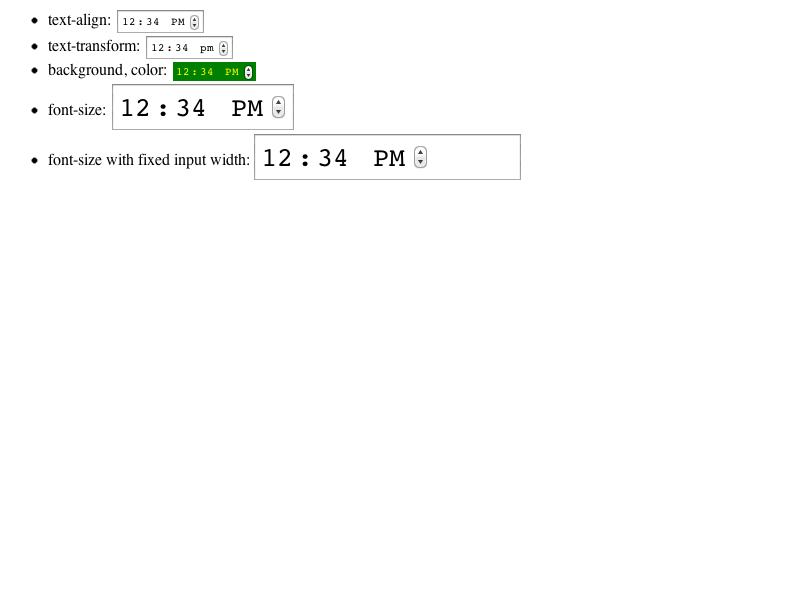
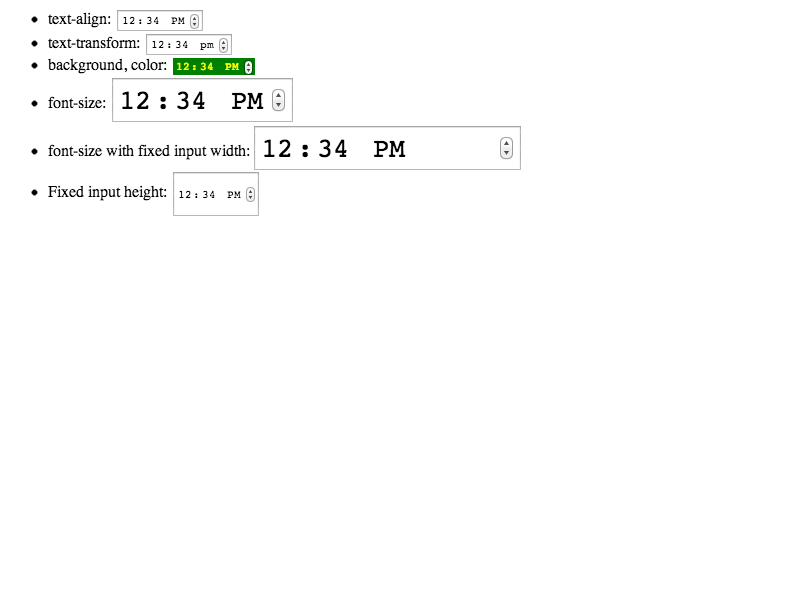
Fix some appearance glitches of multiple fields input elements https://bugs.webkit.org/show_bug.cgi?id=99412
Reviewed by Kentaro Hara.

Source/WebCore:

1. If CSS-specified width is wider than the intrinsic width of an input,
the spin button and the picker indicator triangle should be put at the
right side of the content area.

2. Remove top, right, and bottom paddings to match input[type=number]
appearance as possible.

3. Remove unnecessary position:relative for spin buttons.

4. Center content vertically if the height is taller than the intrinsic height.

Tests: Update all of rendering tests for input element with multiple fields UI.

* css/html.css:
(input[type="date"]):
- Specify display:-webkit-inline-flex and -webkit-align-items:stretch to center contents.
- Remove top/right/bottom paddings.
(input[type="datetime"]): Ditto.
(input[type="datetime-local"]): Ditto.
(input[type="month"]): Ditto.
(input[type="time"]): Ditto.
(input[type="week"]): Ditto.
(input::-webkit-datetime-edit):
- Switch to the starndard flexible box from the legacy one.
- Add white-space:pre to avoid to collapse white spaces.
(input::-webkit-datetime-edit-gap):
Added. This element is added to push a spin button to the right side.
(input::-webkit-date-and-time-container):
Add -webkit-flex:1 for the input flexible box.
Sort properties.
(input[type="week"]::-webkit-inner-spin-button):
- Use this in date, datetime, datetime-local, and week types.
- Add display:inline-block because other elements in -webkit-datetime-edit is inilne.
- Add position:static to cancel position:relative below.
[…]

Changed region(s): [[0.0312, 0.0, 0.6562, 0.33]]

diff --git a/Source/WebCore/css/html.css b/Source/WebCore/css/html.css
@@ -479,39 +479,59 @@ datalist {
 #if defined(ENABLE_INPUT_MULTIPLE_FIELDS_UI) && ENABLE_INPUT_MULTIPLE_FIELDS_UI
 #if defined(ENABLE_INPUT_TYPE_DATE) && ENABLE_INPUT_TYPE_DATE
 input[type="date"] {
+    -webkit-align-items: stretch;
+    display: -webkit-inline-flex;
     font-family: monospace;
+    padding: 0 0 0 1px;
 }
 #endif
 #if defined(ENABLE_INPUT_TYPE_DATETIME) && ENABLE_INPUT_TYPE_DATETIME
 input[type="datetime"] {
+    -webkit-align-items: stretch;
+    display: -webkit-inline-flex;
     font-family: monospace;
+    padding: 0 0 0 1px;
 }
 #endif
 #if defined(ENABLE_INPUT_TYPE_DATETIMELOCAL) && ENABLE_INPUT_TYPE_DATETIMELOCAL
 input[type="datetime-local"] {
+    -webkit-align-items: stretch;
+    display: -webkit-inline-flex;
     font-family: monospace;
+    padding: 0 0 0 1px;
 }
 #endif
 #if defined(ENABLE_INPUT_TYPE_MONTH) && ENABLE_INPUT_TYPE_MONTH
 input[type="month"] {
+    -webkit-align-items: stretch;
+    display: -webkit-inline-flex;
     font-family: monospace;
+    padding: 0 0 0 1px;
 }
 #endif
 #if defined(ENABLE_INPUT_TYPE_TIME) && ENABLE_INPUT_TYPE_TIME
 input[type="time"] {
+    -webkit-align-items: stretch;
+    display: -webkit-inline-flex;
     font-family: monospace;
+    padding: 0 0 0 1px;
 }
 #endif
 #if defined(ENABLE_INPUT_TYPE_WEEK) && ENABLE_INPUT_TYPE_WEEK
 input[type="week"] {
+    -webkit-align-items: stretch;
+    display: -webkit-inline-flex;
     font-family: monospace;
+    padding: 0 0 0 1px;
 }
 #endif
 
 input::-webkit-datetime-edit {
+    -webkit-align-items: center;
+    -webkit-flex: 1;
     -webkit-user-modify: read-only !important;
-    display: -webkit-box;
-    -webkit-box-align: center;
+    display: -webkit-flex;
+    white-space: pre;
 }
 
 input::-webkit-datetime-edit-ampm-field {
@@ -591,9 +611,16 @@ input::-webkit-datetime-edit-year-field {
     padding: 0.15em;
 }
 
+input::-webkit-datetime-edit-gap {
+    -webkit-flex: 1;
+    -webkit-user-modify: read-only !important;
+    display: inline-block;
+}
+
 input::-webkit-date-and-time-container {
-    display: -webkit-flex;
     -webkit-align-items: center;
+    -webkit-flex: 1;
+    display: -webkit-flex;
 }
 
 /* Remove focus ring from fields and use highlight color */
@@ -616,9 +643,15 @@ input::-webkit-datetime-edit-second-field[readonly] {
     color: GrayText;
 }
 
+input[type="date"]::-webkit-inner-spin-button,
+input[type="datetime"]::-webkit-inner-spin-button,
+input[type="datetime-local"]::-webkit-inner-spin-button,
 input[type="month"]::-webkit-inner-spin-button,
-input[type="time"]::-webkit-inner-spin-button {
+input[type="time"]::-webkit-inner-spin-button,
+input[type="week"]::-webkit-inner-spin-button {
+    display: inline-block;
     margin-left: 0.2em;
+    position: static;
 }
 #endif
 

diff --git a/LayoutTests/fast/forms/time-multiple-fields/time-multiple-fields-appearance-style.html b/LayoutTests/fast/forms/time-multiple-fields/time-multiple-fields-appearance-style.html
@@ -6,11 +6,11 @@
     <li>background, color: <input type="time" value="12:34" style="border: 0px; background: green; color: yellow"></li>
     <li>font-size: <input type="time" value="12:34" style="font-size: 20pt"></li>
     <li>font-size with fixed input width: <input type="time" value="12:34" style="font-size: 20pt; width: 10em;"></li>
+    <li>Fixed input height: <input type="time" value="12:34" style="height: 4em;"></li>
 </ul>
-</body>
 <script>
-if (window.testRunner) {
+if (window.testRunner)
     testRunner.dumpAsText(true);
-}
 </script>
+</body>
 </html>

diff --git a/Source/WebCore/html/shadow/DateTimeEditElement.cpp b/Source/WebCore/html/shadow/DateTimeEditElement.cpp
@@ -396,6 +396,10 @@ void DateTimeEditElement::layout(const LayoutParameters& layoutParameters, const
         }
     }
 
+    DEFINE_STATIC_LOCAL(AtomicString, gapPseudoId, ("-webkit-datetime-edit-gap", AtomicString::ConstructFromLiteral));
+    RefPtr<HTMLDivElement> gapElement = HTMLDivElement::create(document());
+    gapElement->setShadowPseudoId(gapPseudoId);
+    appendChild(gapElement);
     RefPtr<SpinButtonElement> spinButton = SpinButtonElement::create(document(), *this);
     m_spinButton = spinButton.get();
     appendChild(spinButton);
